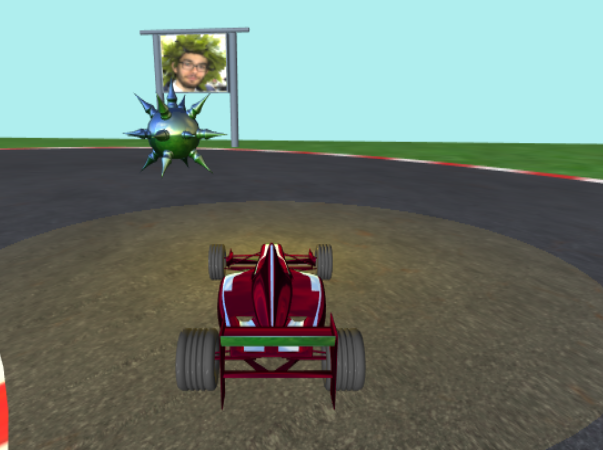
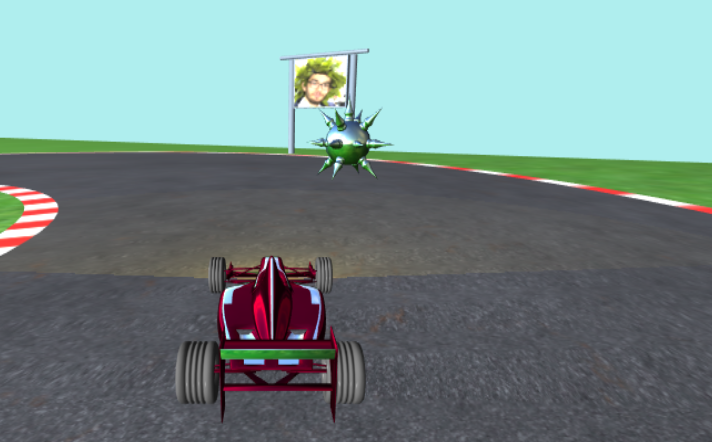
update doc and minor fix

diff --git a/documentazione/relazione.html b/documentazione/relazione.html
@@ -59,6 +59,13 @@
             <li>Il giro finisce quando si tocca il <span>traguardo</span>;</li>
             <li>Lo scopo è completare il giro con il maggior punteggio possibile.</li>
           </ul>
+          Nella schermata è anche possibile trovare alcune checkbox che abilitano/disabilitano delle opzioni grafiche
+          <ul>
+            <li>Checkbox per la visualizzazione delle collision box;</li>
+            <li>Checkbox per la visualizzazione dell'environment box;</li>
+            <li>Checkbox per l'attivazione dell'illuminazione;</li>
+            <li>Checkbox per l'attivazione dell'environment mapping.</li>
+          </ul>
         </div>
       </div>
       <div id="obj" name="obj">
@@ -416,7 +423,7 @@
             sia le funzioni che si occupano di "popolare" la seconda schermata durante il ciclo di attività dell'applicazione
             Il posizionamento del contenuto è stato fatto in relazione alle dimensioni del canvas in maniera da essere indipendente
             e coerente su schermi di varie dimensioni (pc piuttosto che smartphone).</br>
-            Come emerso prima il contenuto dell'overlay non è sempre lo stesso, questo perchè si è deciso di sfruttare la presenza
+            Come emerso prima, il contenuto dell'overlay non è sempre lo stesso, questo perchè si è deciso di sfruttare la presenza
             della grafica 2D per suddividere l'applicazione in tre fasi:
             <ul>
               <li>Fase di loading</li>
@@ -485,16 +492,31 @@
                                   sum_specular) * temp.rgb * env_color.rgb;  </br>
             </code></br></br>
             Il contributo dei termini che contengono lambertian2 e specular2 sono dovuti ai calcoli effettuati su un'altra
-            sorgente luce che vuole simulare i fari dell'auto. Per questa luce è stato settato un colore giallo e un limite
-            di azione pari a 10, come si vede dal codice sotto</br></br>
-            <code>
-              vec3 L2 = normalize(u_lightWorldPosition2 - vertPos);</br>
-              float lambertian2 = 0.0;</br>
-              if(length(u_lightWorldPosition2 - vertPos) < 10.0){</br>
-                lambertian2 = 2.0*max(dot(N, L2), 0.0);</br>
-              }
-            </code></br></br>
-
+            sorgente luce che vuole simulare i fari dell'auto. Per creare un effetto più realistico l'azione della luce
+            è stata limitata ad una lunghezza 20 e per un cono avanti l'auto ben preciso</br></br>
+            <div>
+              <div style="float:left;">
+                <code>
+                  vec3 L2 = normalize(u_lightWorldPosition2 - vertPos);</br>
+                  float lambertian2 = 0.0;</br>
+                  vec3 referenceVec = normalize(u_reference - u_lightWorldPosition2);</br>
+                  vec3 objVec = normalize(vertPos - u_lightWorldPosition2);</br>
+                  float dotP = dot(referenceVec, objVec);</br>
+                  if(length(u_lightWorldPosition2 - vertPos) < 20.0 && dotP >= 0.1 && dotP <= 1.0){</br>
+                    lambertian2 = 2.0*max(dot(N, L2), 0.0);</br>
+                  }
+                </code></br></br>
+              </div>
+              <div style="float:right;">
+                <img src="./resources/lighting_scheme.png" width = 300, height = 300>
+              </div>
+            </div>
+            <div style="clear: left;clear: right; padding-bottom:10px;"></div>
+            Facendo riferimento allo schema sopra, si è preso un punto di riferimento avanti l'auto in maniera
+            da creare il vettore A che rimane fisso e serve per indicare quale sia la parte anteriore, il vettore
+            B è invece quello che collega la luce con il punto 3D attualmente considerato. Quando i due vettori
+            coincideranno il loro prodotto scalare sarà pari a 1 andando poi a diminuire quando ci si allontana, inserendo
+            quindi un limite sul valore che questo può assumere si va a modellare l'area colpita dal faro.
             <div>
               <div style="float:left;">
                 <img src="./resources/senzaFaro.png" width = 500, height = 300>
@@ -504,7 +526,8 @@
               </div>
             </div>
             <div style="clear: left;clear: right; padding-bottom:10px;"></div>
-            Nelle due immagini sopra possiamo notare l'effetto sull'obstacle del faro, a sinistra il faro non colpisce
+            Nelle due immagini sopra possiamo notare sia la forma a "cono" del faro sia
+            l'effetto che ha sull'obstacle, a sinistra non colpisce
             l'oggetto, a destra si ed infatti il colore è più giallo.</br></br>
             Infine segue l'ultima parte, quella di environment mapping. Per raggiungere l'effetto desiderato è stato creata
             una textureCube con uno skybox predefinito, i calcoli effettuati sono simili a quella per l'illuminazione tradizionale
@@ -512,7 +535,20 @@
             si calcola la direzione riflessa che verrà usata per indicizzare il texel corretto dello skybox.</br>
             L'environment mapping non viene calcolato per ogni oggetti, ma può essere settato attraverso la variabile
             environment presente in ogni mesh, questo per fare in modo che l'effetto riflettente fosse presente solamente
-            sugli oggetti lucidi tipo l'auto e gli ostacoli che si suppongono siano fatti di metallo.
+            sugli oggetti lucidi tipo l'auto e gli ostacoli che si suppongono siano fatti di metallo.</br>
+            La stessa texture usata per creare l'environment mapping è stata usata per l'environmentBox che, di fatto,
+            è semplicemente un cubo texturizzato con le 6 immagini trovate e allargato fino a ricoprire l'intera scena,
+            il tutto per rendere l'ambientazione un po' più realistica. Questa soluzone funziona ma presenta alcune limitazioni,
+            tra cui quella di essere soggetta al clipping sul far plane nel momento in cui ci sia allontana troppo dalla scena.
+            <div>
+              <div style="float:left;">
+                <img src="./resources/senzaEnvironment.png" width = 500, height = 300>
+              </div>
+              <div style="float:right;">
+                <img src="./resources/conEnvironment.png" width = 500, height = 300>
+              </div>
+            </div>
+            <div style="clear: left;clear: right; padding-bottom:10px;"></div>
           </div>
         </div>
       </div>

diff --git a/js/interaction/mouse.js b/js/interaction/mouse.js
@@ -1,29 +1,12 @@
-var pressed_dx = 0
-var start_x, start_y
-var step_theta = 1 * Math.PI / 180
-var step_phi = 1 * Math.PI / 180
-
 function setUpMouseInteraction(){
   canvas.addEventListener("mousedown", onMouseDown)
-  canvas.addEventListener("mouseup", onMouseUp)
-  canvas.addEventListener("mousemove", onMouseMove)
   canvas.addEventListener('contextmenu', e => { e.preventDefault(); });
 
   overlay.addEventListener("mousedown", onMouseDown)
-  overlay.addEventListener("mouseup", onMouseUp)
-  overlay.addEventListener("mousemove", onMouseMove)
   overlay.addEventListener('contextmenu', e => { e.preventDefault(); });
 }
 
 function onMouseDown(e){
-  if ( e.button == 2){
-    canvas_coords = windowToCanvas(canvas, e.clientX, e.clientY)
-    start_x = canvas_coords.x
-    start_y = canvas_coords.y
-
-    pressed_dx = 1
-  }
-
   if ( e.button == 0){
     if(speedBoost_number !== 0){
       speedBoost_number -= 1
@@ -46,34 +29,5 @@ function onMouseDown(e){
       c=-45
       angle = 50
     }
-  }
-}
-
-function onMouseMove(e){
-  if(pressed_dx == 1){
-    canvas_coords = windowToCanvas(canvas, e.clientX, e.clientY)
-    cc_x = canvas_coords.x
-    cc_y = canvas_coords.y
-
-    dx = start_x - cc_x
-    dy = start_y - cc_y
-
-    // cambio parametri secondo dx, dy
-    theta += (step_theta * dx)
-    phi += (step_phi * dy)
-
-    start_x = cc_x
-    start_y = cc_y
-
-    render()
-  }
-}
-
-function onMouseUp(e){
-  if ( e.button == 2){
-    start_x = -1
-    start_y = -1
-
-    pressed_dx = 0
   }
 }

diff --git a/js/init_application.js b/js/init_application.js
@@ -10,13 +10,8 @@ var game_env
 var speedBoost_number = 0
 var score = 9999
 
-// var a=-15,b=116,c=18
-// var a=-40,b=24,c=6
 var a=-7,b=56,c=-45
-// -40/24/6
-// OK -7/56/-45
-// FIRST PERSON 0 0 -1
-//b=116
+
 
 var l_x = 0, l_y = 100, l_z = 0;
 var step_x = 10, step_y = 10, step_z = 10;
@@ -24,7 +19,6 @@ var step_x = 10, step_y = 10, step_z = 10;
 var light = [l_x, l_y, l_z]
 
 // settings
-var free_view = false
 var third_person = false
 var startPlayed = false
 var finished = false

diff --git a/application.html b/application.html
@@ -220,7 +220,6 @@
     <script type="text/javascript" src="js/utils/gl_mesh_utils.js"></script>
     <script type="text/javascript" src="js/utils/m4.js"></script>
     <script type="text/javascript" src="js/utils/webgl-utils.js"></script>
-    <script type="text/javascript" src="js/utils/webgl-lessons-ui.js"></script>
 
     <script type="text/javascript" src="js/scene_loader.js"></script>
     <script type="text/javascript" src="js/init_position.js"></script>

diff --git a/js/camera.js b/js/camera.js
@@ -1,5 +1,5 @@
 function setCamera(){
-  if(game_env['car'] === undefined || free_view === true){
+  if(game_env['car'] === undefined){
     cameraPosition = [radius*Math.sin(phi)*Math.cos(theta),
                       radius*Math.sin(phi)*Math.sin(theta),
                       radius*Math.cos(phi)]
